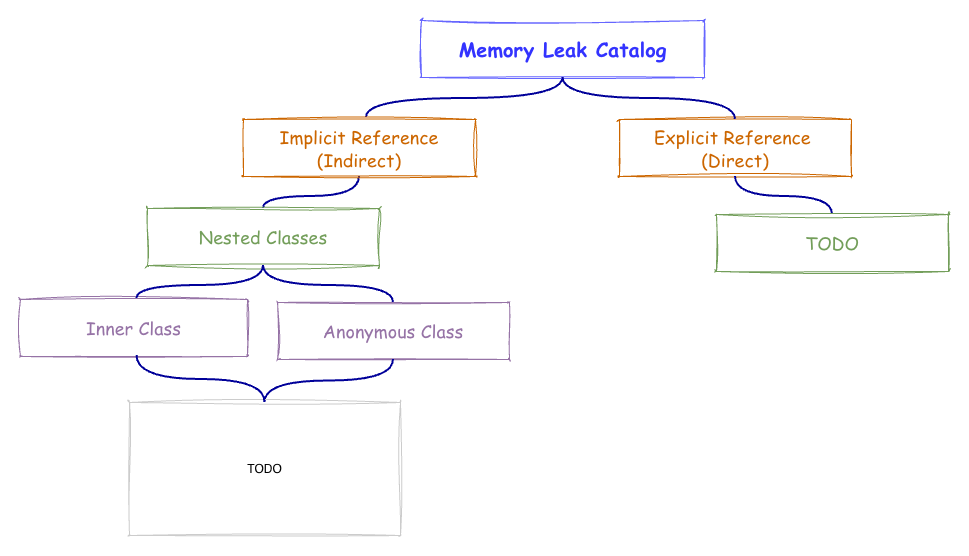
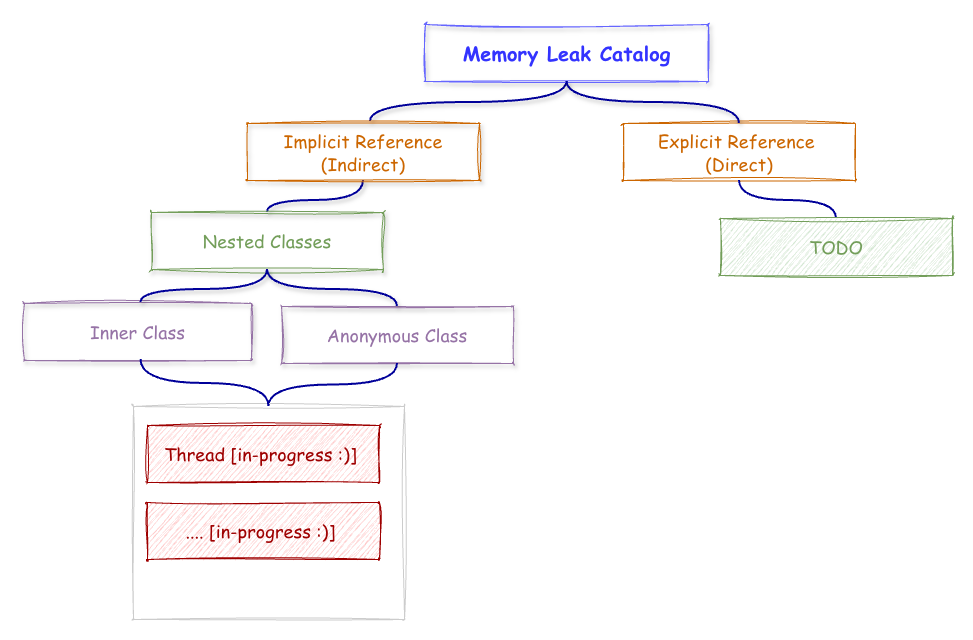
Anonymous classes (#3)

diff --git a/app/src/main/java/com/memoryleak/catalog/implicit/anonymous/AnonymousActivity.kt b/app/src/main/java/com/memoryleak/catalog/implicit/anonymous/AnonymousActivity.kt
@@ -1,0 +1,56 @@
+package com.memoryleak.catalog.implicit.anonymous
+
+import android.os.Bundle
+import androidx.appcompat.app.AppCompatActivity
+import com.memoryleak.catalog.R
+import java.lang.ref.WeakReference
+
+class AnonymousActivity : AppCompatActivity() {
+    override fun onCreate(savedInstanceState: Bundle?) {
+        super.onCreate(savedInstanceState)
+        setContentView(R.layout.activity_anonymous)
+
+        anonymousObject = object : MyAnonymousClass() {
+            override fun doSomething() {
+                this@AnonymousActivity
+            }
+        }
+    }
+
+    companion object {
+        private lateinit var anonymousObject: MyAnonymousClass
+    }
+}
+
+open class MyAnonymousClass {
+    open fun doSomething() {
+    }
+}
+
+/*
+* Fix Memory leak in anonymous class
+*
+*
+* class AnonymousActivity : AppCompatActivity() {
+    override fun onCreate(savedInstanceState: Bundle?) {
+        super.onCreate(savedInstanceState)
+        setContentView(R.layout.activity_anonymous)
+
+        anonymousObject = WeakReference(object : MyAnonymousClass() {
+            override fun doSomething() {
+                this@AnonymousActivity
+            }
+        })
+    }
+
+    companion object {
+        private lateinit var anonymousObject: WeakReference<MyAnonymousClass>
+    }
+}
+
+open class MyAnonymousClass {
+    open fun doSomething() {
+    }
+}
+
+ */

diff --git a/app/src/main/java/com/memoryleak/catalog/implicit/ImplicitMemoryLeakActivity.kt b/app/src/main/java/com/memoryleak/catalog/implicit/ImplicitMemoryLeakActivity.kt
@@ -8,6 +8,7 @@ import androidx.appcompat.app.AppCompatActivity
 import androidx.core.view.ViewCompat
 import androidx.core.view.WindowInsetsCompat
 import com.memoryleak.catalog.R
+import com.memoryleak.catalog.implicit.anonymous.AnonymousActivity
 import com.memoryleak.catalog.implicit.innerclasses.InnerClassActivity
 
 class ImplicitMemoryLeakActivity : AppCompatActivity() {
@@ -17,6 +18,10 @@ class ImplicitMemoryLeakActivity : AppCompatActivity() {
 
         findViewById<Button>(R.id.btn_inner_class).setOnClickListener {
             startActivity(Intent(this, InnerClassActivity::class.java))
+        }
+
+        findViewById<Button>(R.id.btn_anonymous_class).setOnClickListener {
+            startActivity(Intent(this, AnonymousActivity::class.java))
         }
     }
 }

diff --git a/doc/AnonymousClass.md b/doc/AnonymousClass.md
@@ -1,0 +1,85 @@
+## Anonymous Class
+An unnamed class defined within a method. The syntax of an anonymous class expression is like the invocation of a constructor, except that there is a class definition contained in a block of code. 
+
+Anonymous classes help make code more concise and reduce boilerplate, since you can declare and create the class at the same time.
+
+They are commonly used to quickly implement interfaces, override methods, or define short-lived event handlers without creating a separate named class.
+
+**Interface**
+```kotlin
+    val anonymousInterface = object : Runnable {
+        override fun run() {
+    
+            }
+    }
+    
+    // or lambda
+    val anonymousInterface = Runnable { }
+```
+
+**Class**
+
+```kotlin
+    val mObject = object : MyAnonymousClass() { 
+        override fun doSomething() {
+        
+        } 
+    }
+```
+
+### Memory leak
+Occur when an anonymous class holds a reference to an outer class or activity, preventing it from being garbage collected even when it's no longer needed.
+
+**Example**
+
+```kotlin
+    class AnonymousActivity : AppCompatActivity() {
+        override fun onCreate(savedInstanceState: Bundle?) {
+            super.onCreate(savedInstanceState)
+            setContentView(R.layout.activity_anonymous)
+    
+            anonymousObject = object : MyAnonymousClass() {
+                override fun doSomething() {
+                    this@AnonymousActivity
+                }
+            }
+        }
+    
+        companion object {
+            private lateinit var anonymousObject: MyAnonymousClass
+        }
+    }
+    
+    open class MyAnonymousClass {
+        open fun doSomething() {
+        }
+    }
+```
+
+- Run the app and rotate the activity.
+- Then check memory leak from profiler
+  <img src="../media/anonymous_example.png"  style="border: 1px solid #000;">
+
+
+
+##### To fix this Memory leak you need to use WeakReference
+Wrap `MyAnonymousClass` with WeakReference, as anonymous classes don't have explicit names or variable references.
+
+```kotlin
+class AnonymousActivity : AppCompatActivity() {
+    override fun onCreate(savedInstanceState: Bundle?) {
+        super.onCreate(savedInstanceState)
+        setContentView(R.layout.activity_anonymous)
+
+        anonymousObject = WeakReference(object : MyAnonymousClass() {
+            override fun doSomething() {
+                this@AnonymousActivity
+            }
+        })
+    }
+
+    companion object {
+        private lateinit var anonymousObject: WeakReference<MyAnonymousClass>
+    }
+}
+```
